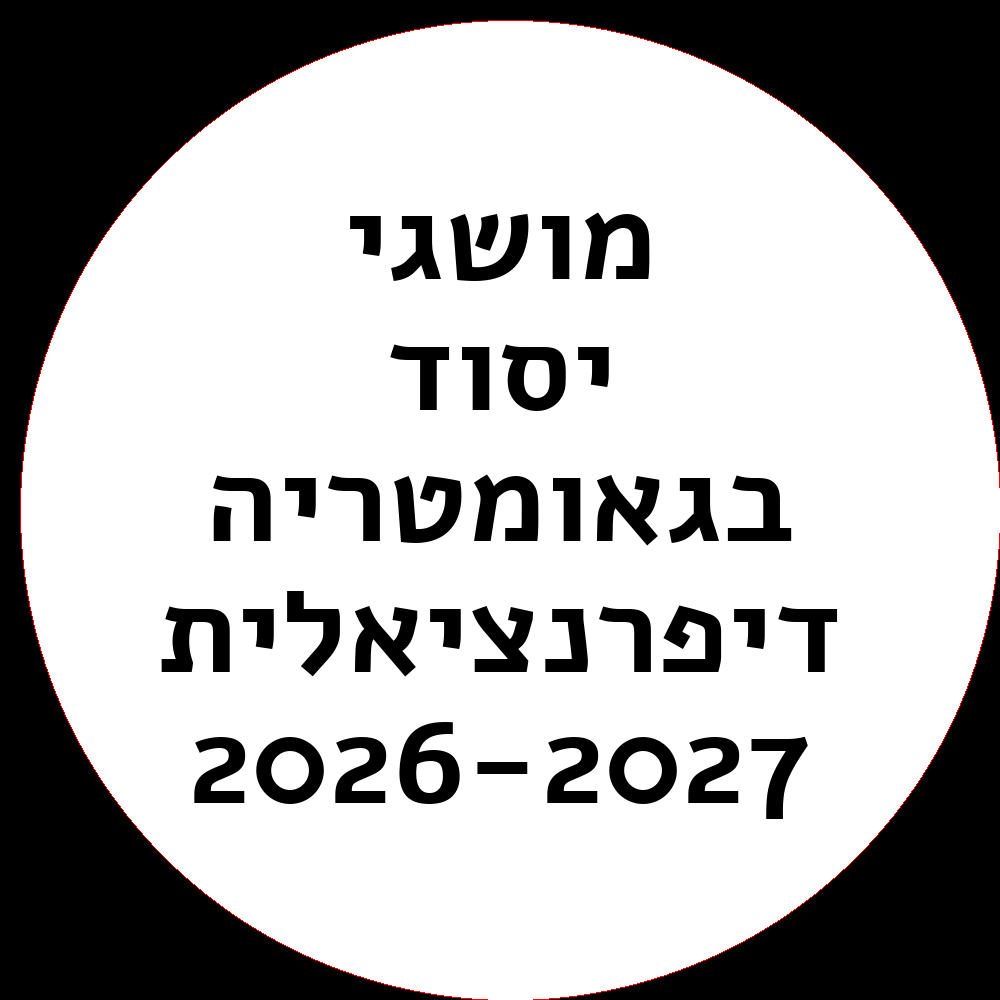
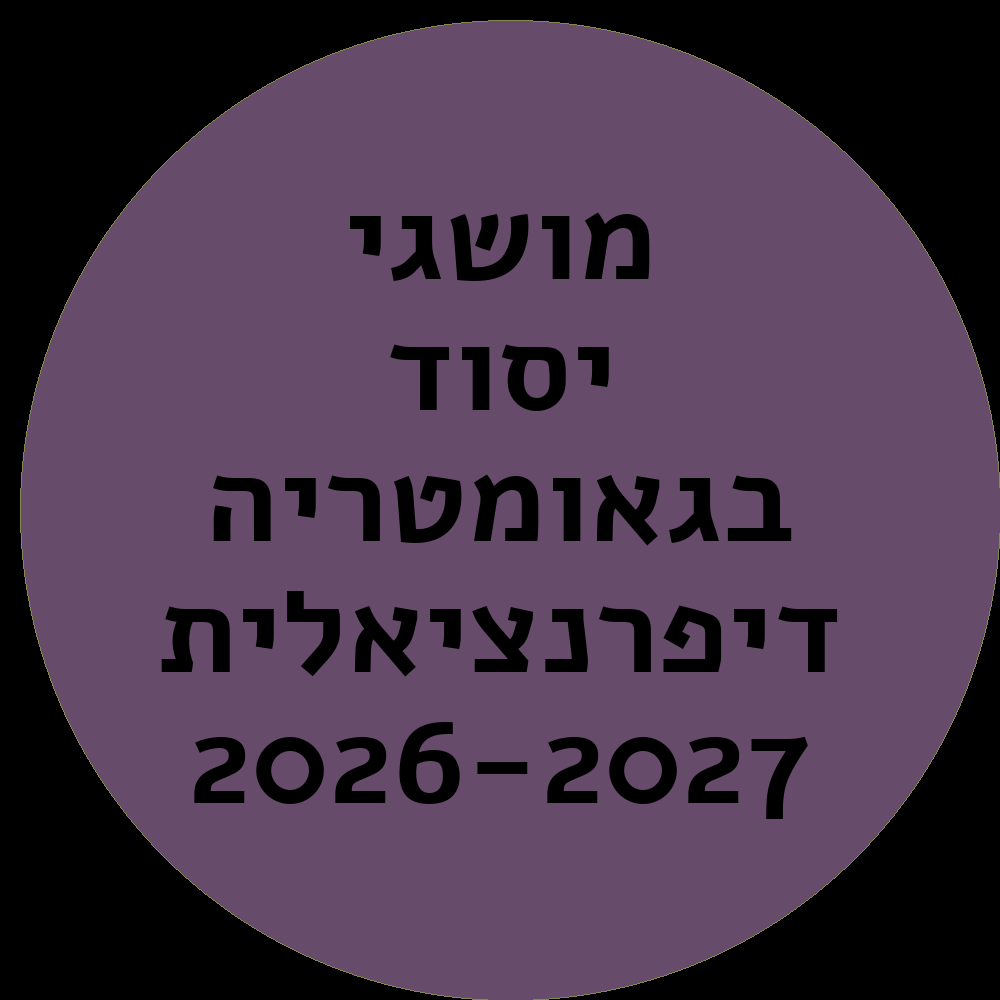
more random bullshit

diff --git a/main.py b/main.py
@@ -22,7 +22,8 @@ def TextToIcon(Text, TemplateImage, Font, FilePath, CourseSeed):
     draw.ellipse(
         (20, 20, 1000, 1000), 
         fill = (randint(0,255),randint(0,255),randint(0,255)), 
-        outline ='blue')
+        outline = (randint(0,255),randint(0,255),randint(0,255))
+    )
 
     draw.multiline_text(
         # (im_p.width / 2, (im_p.height / 2)+40),
